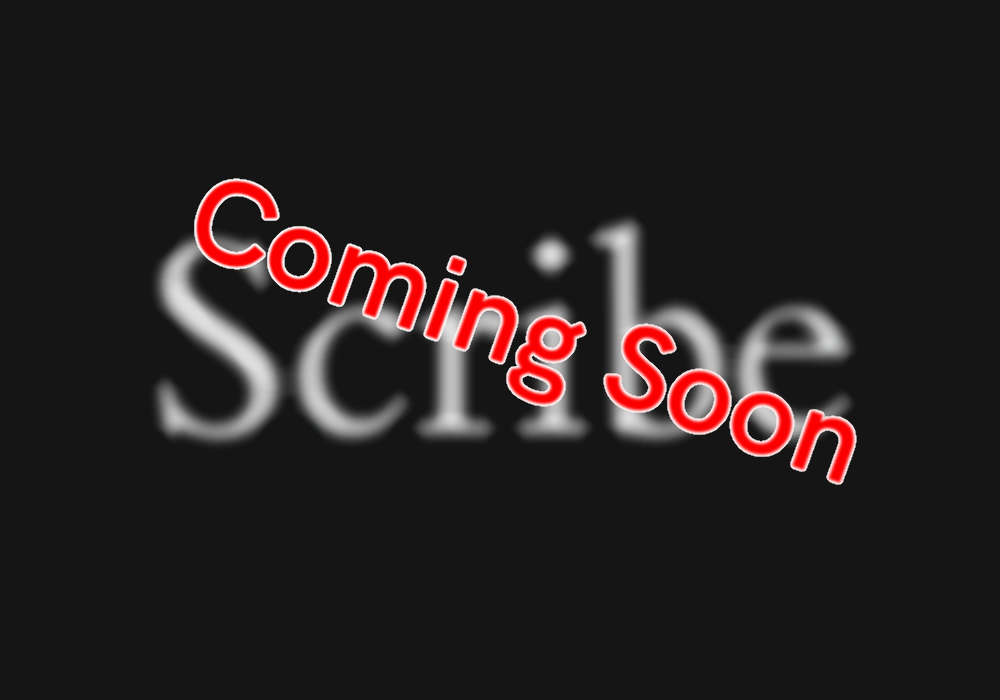
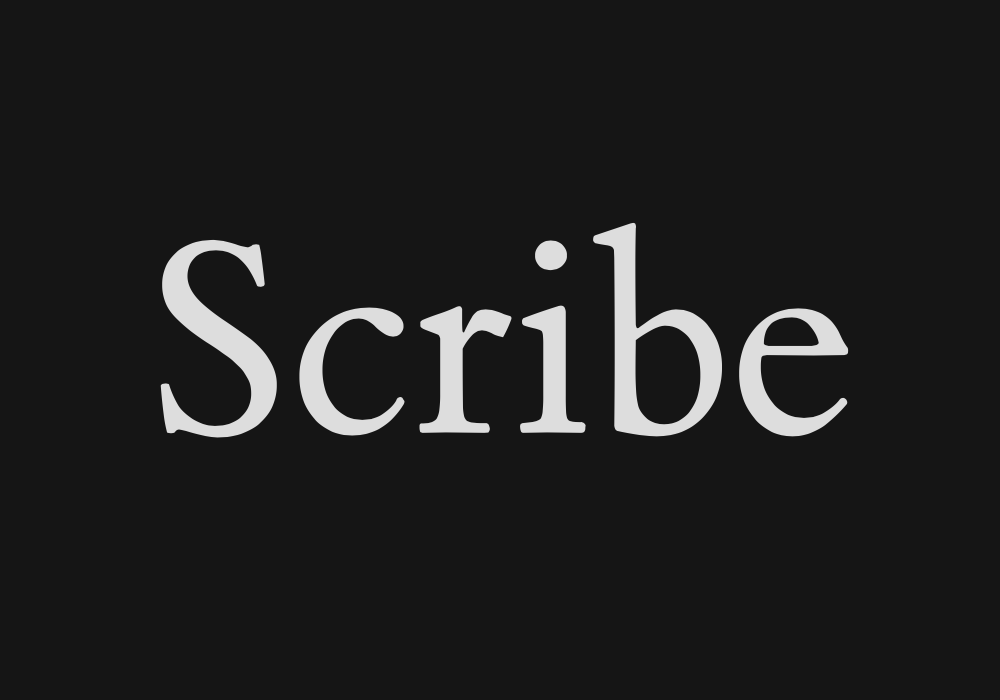
scribe is now running too

Changed region(s): [[0.155, 0.24, 0.868, 0.69]]

diff --git a/content/posts/6 new services.md b/content/posts/6 new services.md
@@ -16,10 +16,12 @@ Today, I have added a few new private frontends to R4fo.com. These include:
 - [Safetwitch](https://safetwitch.r4fo.com) (Twitch)
 - [LibremDB](https://libremdb.r4fo.com) (IMDb)
 - [Quetre](https://quetre.r4fo.com) (Quora)
-- 🚧 Work in progress ~~[Scribe](https://scribe.r4fo.com) (Medium)~~
+- [Scribe](https://scribe.r4fo.com) (Medium)
 - [Rimgo](https://rimgo.r4fo.com) (Imgur)
 - [*Breezewiki](https://breezewiki.r4fo.com) (Fandom)
 
 These are even more services that you can use privately without any 📢 ads, 👁 tracking or ☝fingerprinting! <br>
 
 *\*Please note that on the BreezeWiki instance, there are some direct connections to Fandom.com*
+
+12 Dec (18:25): Scribe instance is now also up and running!

diff --git a/content/services.md b/content/services.md
@@ -75,7 +75,7 @@ a { text-decoration: none; }
 # [💬 Quetre](https://quetre.r4fo.com)  
 - 💬 Quora Frontend
 - 🛡 Everything Proxied
-# 🚧 Coming Soon: [📚 Scribed](https://scribed.r4fo.com)  
+# [📚 Scribe](https://scribe.r4fo.com)  
 - 📚 Medium Frontend
 - 🛡 Everything Proxied
 # [🏞 Rimgo](https://rimgo.r4fo.com)  
